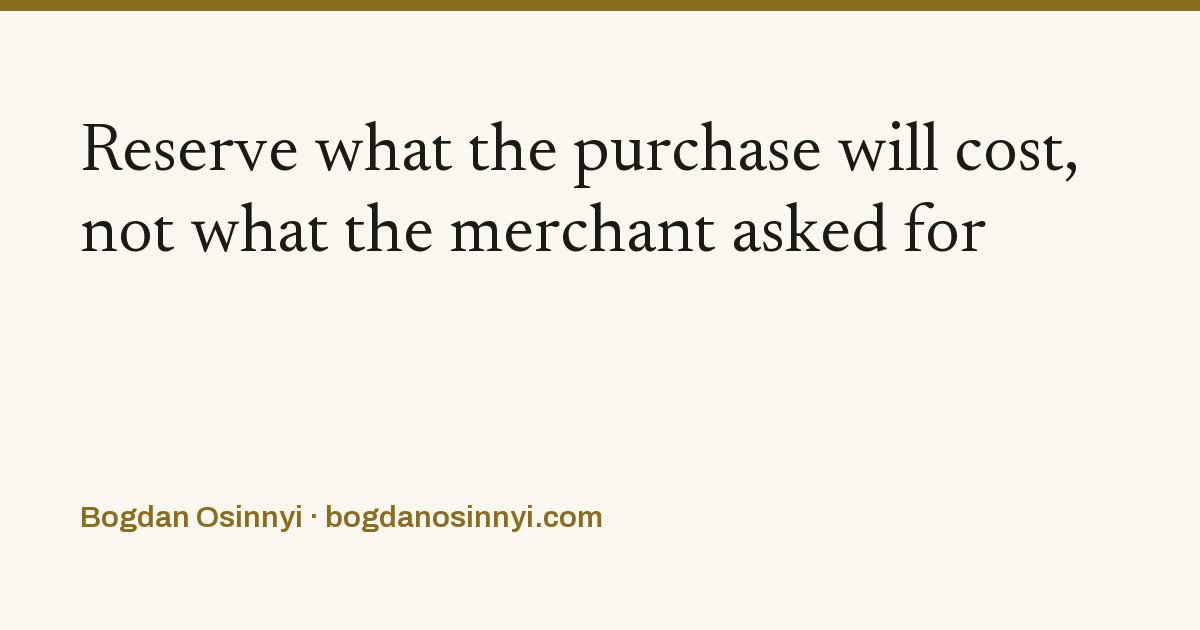
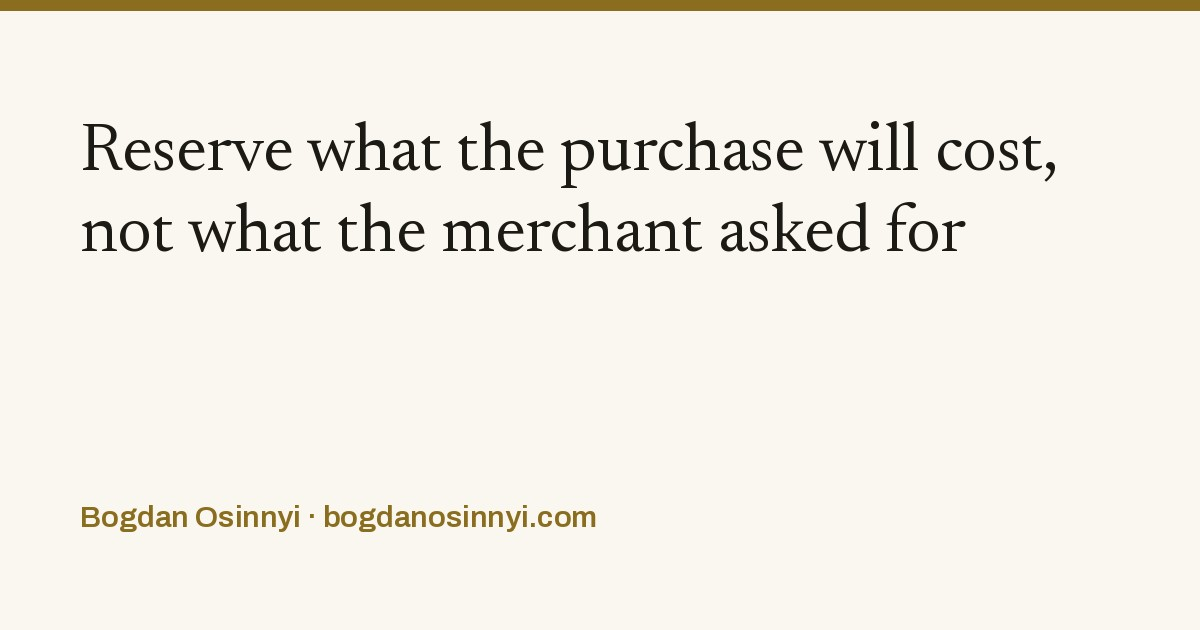
fix: name the author in the case page structured data

diff --git a/cases/card-settlement-above-authorization-negative-balance/index.html b/cases/card-settlement-above-authorization-negative-balance/index.html
@@ -17,7 +17,7 @@
 <link rel="stylesheet" href="/assets/fonts/fonts.css">
 <link rel="stylesheet" href="/assets/cases.css">
 <script src="/assets/cases.js" defer></script>
-<script type="application/ld+json">{"@context":"https://schema.org","@graph":[{"@type":"TechArticle","@id":"https://bogdanosinnyi.com/cases/card-settlement-above-authorization-negative-balance/#article","headline":"Reserve what the purchase will cost, not what the merchant asked for","description":"Restaurant tips and fuel checks settled above the authorization and left card balances below zero, unreported. How I measured it and fixed it at the approval.","image":"https://bogdanosinnyi.com/cases/card-settlement-above-authorization-negative-balance/share.jpg","author":{"@id":"https://bogdanosinnyi.com/#person"},"keywords":["Payments","Card issuing","Money correctness","Concurrency","Zero-downtime migrations","Testing","Python","PostgreSQL"],"mainEntityOfPage":"https://bogdanosinnyi.com/cases/card-settlement-above-authorization-negative-balance/"},{"@type":"BreadcrumbList","itemListElement":[{"@type":"ListItem","position":1,"name":"Cases","item":"https://bogdanosinnyi.com/cases/"},{"@type":"ListItem","position":2,"name":"Payments","item":"https://bogdanosinnyi.com/cases/tags/payments/"},{"@type":"ListItem","position":3,"name":"Reserve what the purchase will cost, not what the merchant asked for","item":"https://bogdanosinnyi.com/cases/card-settlement-above-authorization-negative-balance/"}]}]}</script>
+<script type="application/ld+json">{"@context":"https://schema.org","@graph":[{"@type":"TechArticle","@id":"https://bogdanosinnyi.com/cases/card-settlement-above-authorization-negative-balance/#article","headline":"Reserve what the purchase will cost, not what the merchant asked for","description":"Restaurant tips and fuel checks settled above the authorization and left card balances below zero, unreported. How I measured it and fixed it at the approval.","image":"https://bogdanosinnyi.com/cases/card-settlement-above-authorization-negative-balance/share.jpg","author":{"@type":"Person","@id":"https://bogdanosinnyi.com/#person","name":"Bogdan Osinnyi","url":"https://bogdanosinnyi.com/"},"keywords":["Payments","Card issuing","Money correctness","Concurrency","Zero-downtime migrations","Testing","Python","PostgreSQL"],"mainEntityOfPage":"https://bogdanosinnyi.com/cases/card-settlement-above-authorization-negative-balance/"},{"@type":"BreadcrumbList","itemListElement":[{"@type":"ListItem","position":1,"name":"Cases","item":"https://bogdanosinnyi.com/cases/"},{"@type":"ListItem","position":2,"name":"Payments","item":"https://bogdanosinnyi.com/cases/tags/payments/"},{"@type":"ListItem","position":3,"name":"Reserve what the purchase will cost, not what the merchant asked for","item":"https://bogdanosinnyi.com/cases/card-settlement-above-authorization-negative-balance/"}]}]}</script>
 </head>
 <body class="case-page">
 <nav class="nav">
